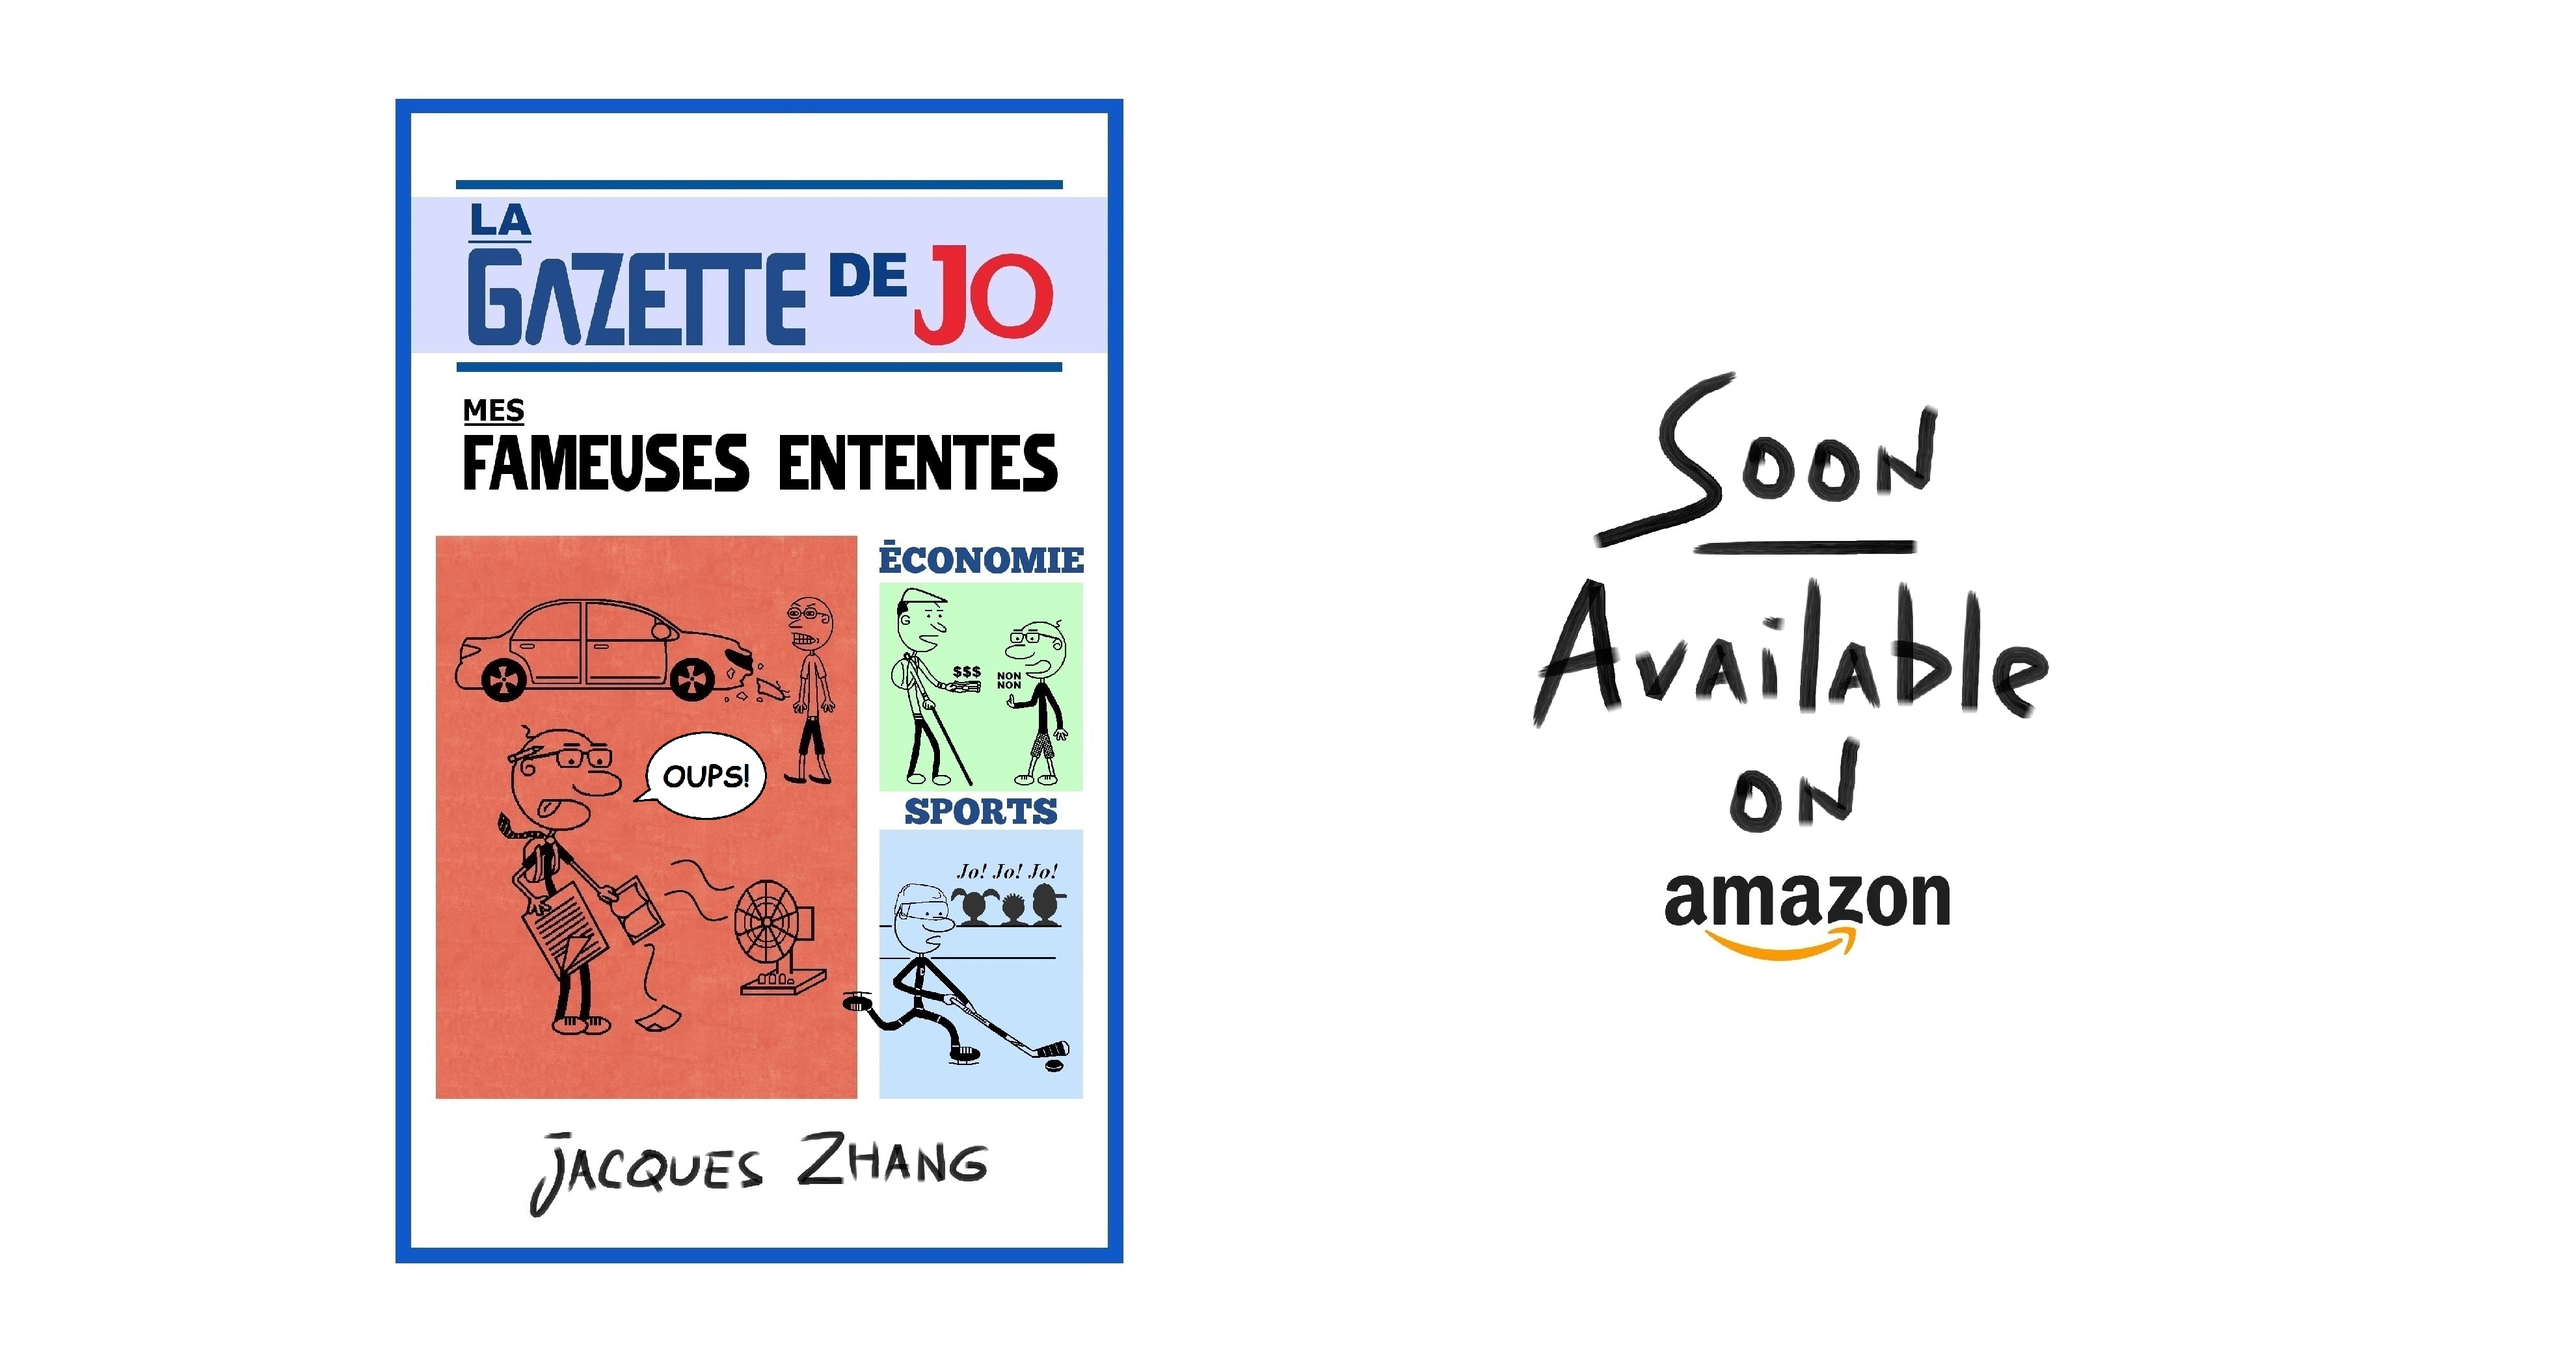
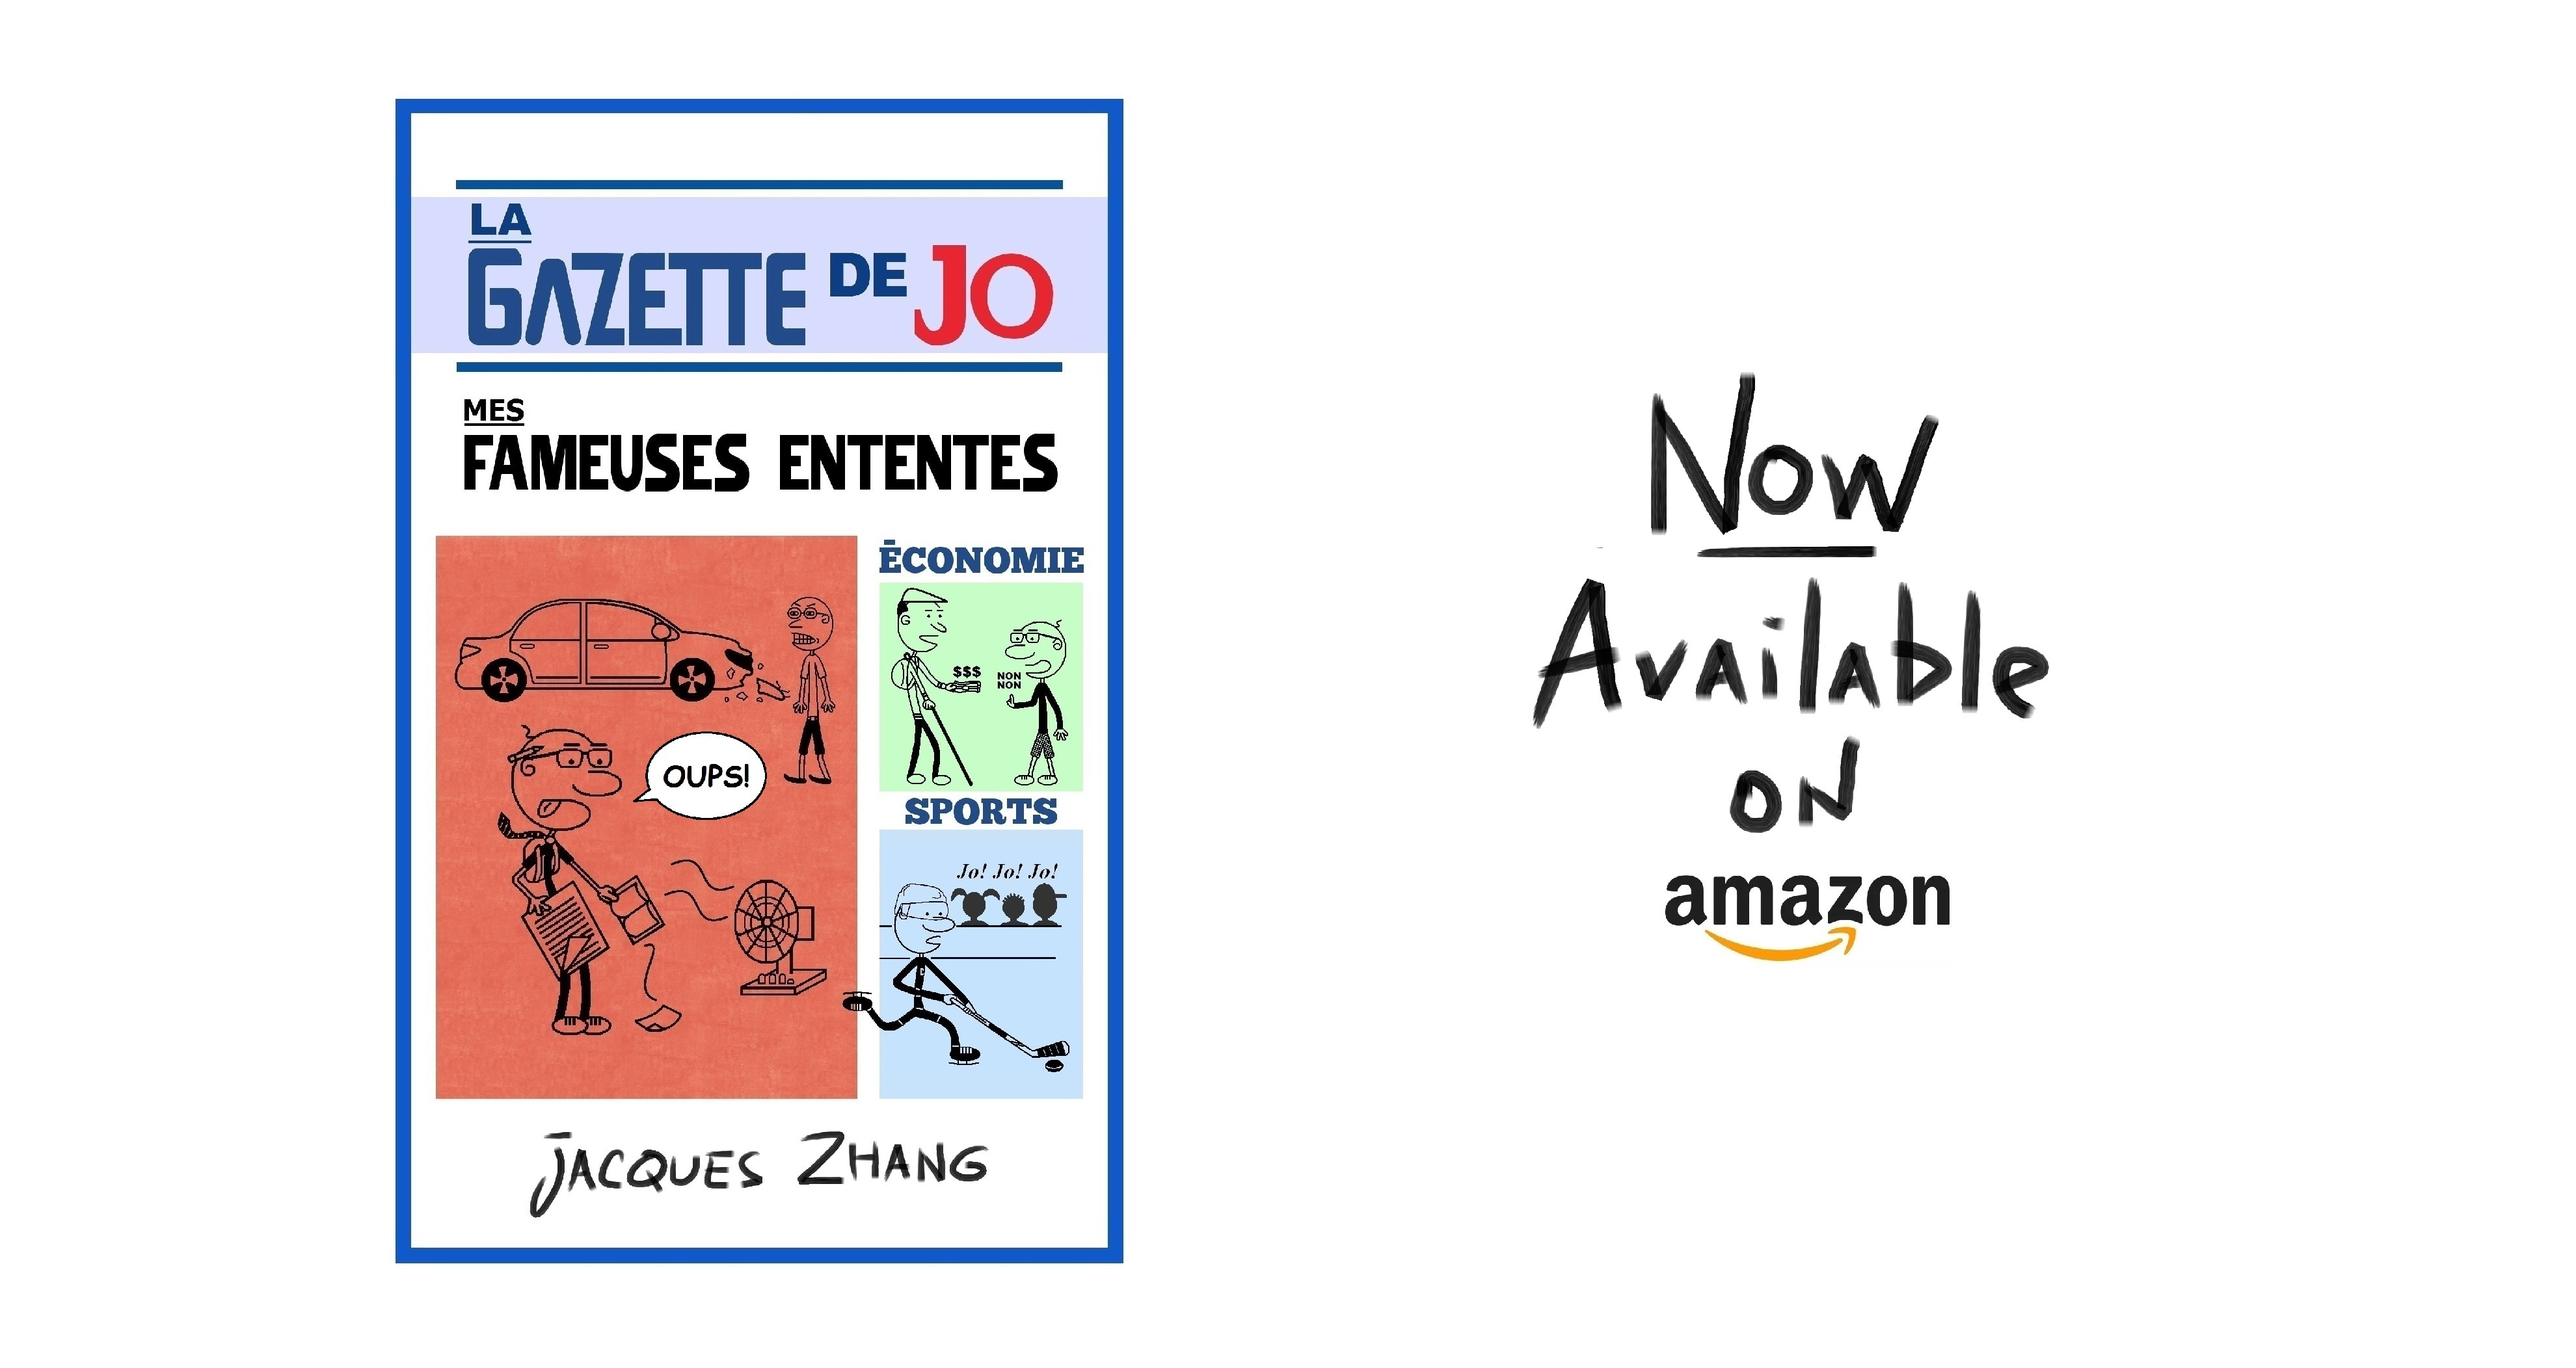
maintenant disponible, now available + amazon link

Changed region(s): [[0.6212, 0.278, 0.7455, 0.4325]]

diff --git a/index.html b/index.html
@@ -48,7 +48,7 @@
 					<section id="two" class="wrapper style2">
 						<header>
 							<h2>Acheter</h2>
-							<p style="color:#FFFFFF">Bientôt disponible sur Amazon (et Kindle)</p>
+							<h2 style="color:#FFFFFF"> Disponible sur <u><a href="https://www.amazon.com/gazette-Jo-fameuses-ententes-French/dp/1719002371/ref=sr_1_1?keywords=gazette+de+jo&qid=1558288534&s=gateway&sr=8-1-spell"><font color="#e68a00">Amazon</u></font><h2></a>
 							<br>
 							<p style="color:#FFFFFF">Contact: gazettejo@gmail.com</p>
 							<p style="color:#FFFFFF">(si vous avez des questions ou suggestions)</p>

diff --git a/en.html b/en.html
@@ -50,7 +50,7 @@
 					<section id="two" class="wrapper style2">
 						<header>
 							<h2>Purchase</h2>
-							<p style="color:#FFFFFF">Soon available on Amazon (and Kindle)</p>
+							<h2 style="color:#FFFFFF"> Available on <u><a href="https://www.amazon.com/gazette-Jo-fameuses-ententes-French/dp/1719002371/ref=sr_1_1?keywords=gazette+de+jo&qid=1558288534&s=gateway&sr=8-1-spell"><font color="#e68a00">Amazon</u></font><h2></a>
 							<br>
 							<p style="color:#FFFFFF">Contact: gazettejo@gmail.com</p>
 							<p style="color:#FFFFFF">(if you have questions or suggestions)</p>
